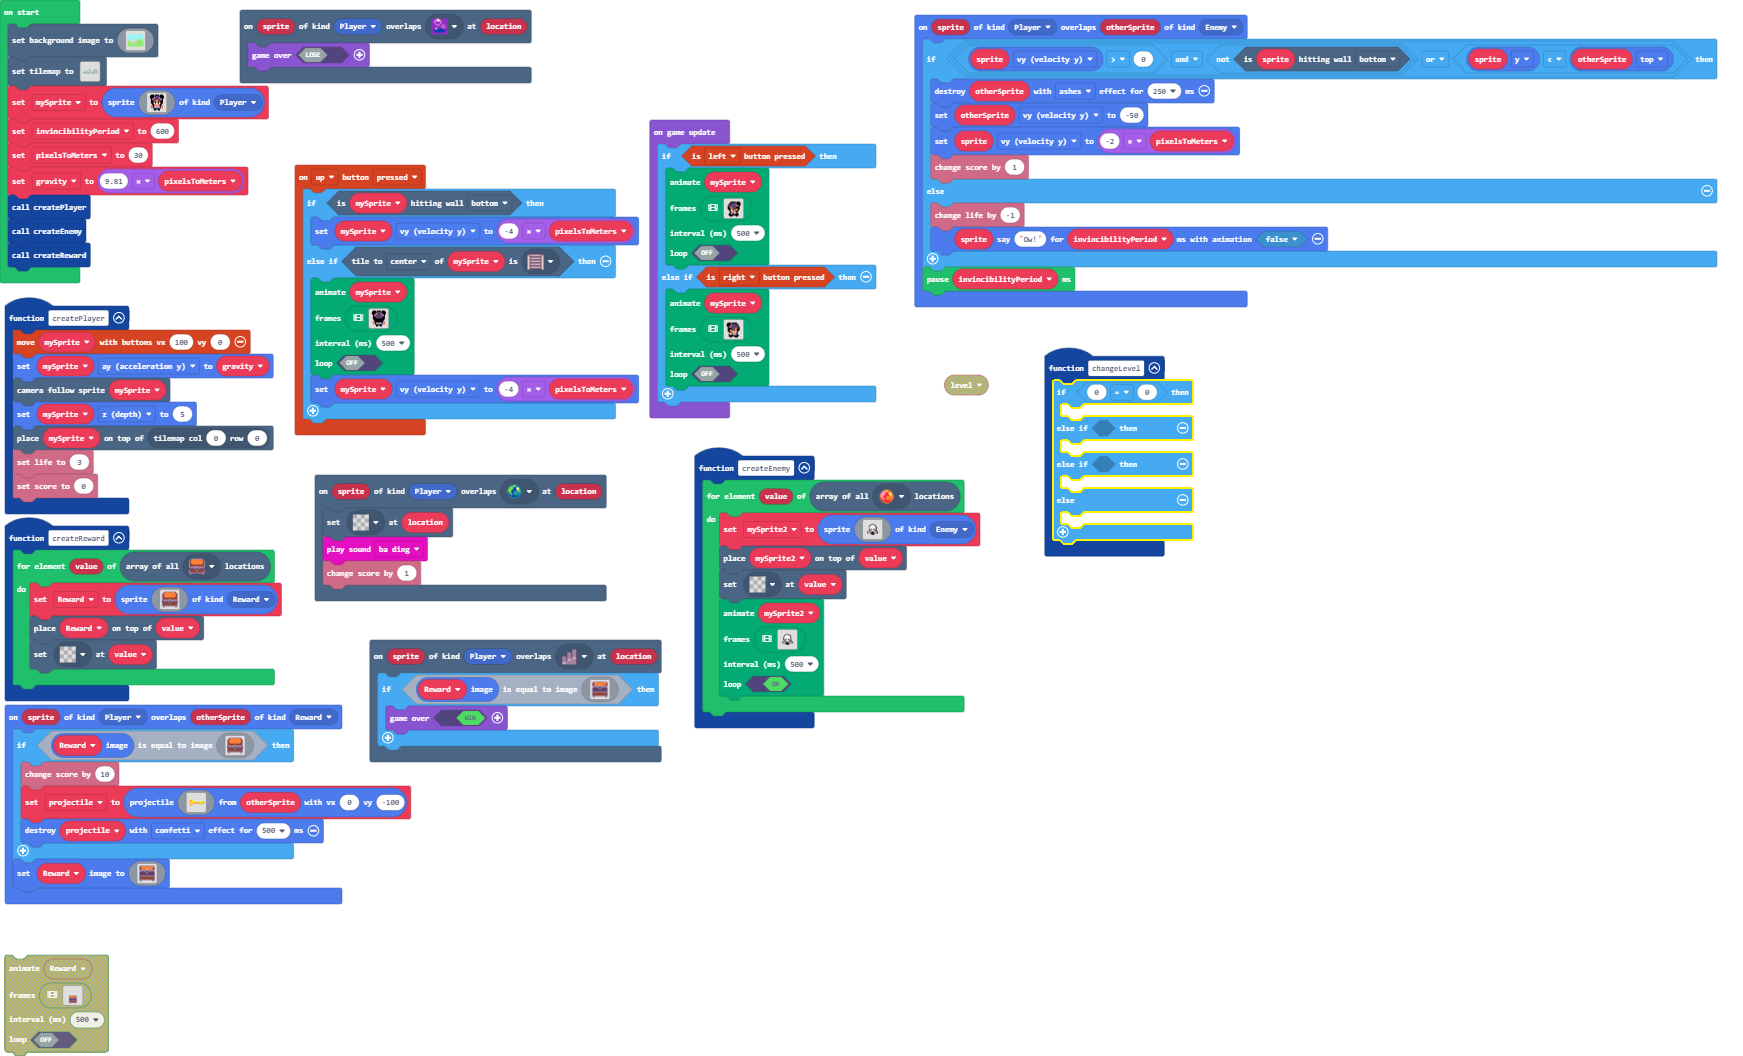
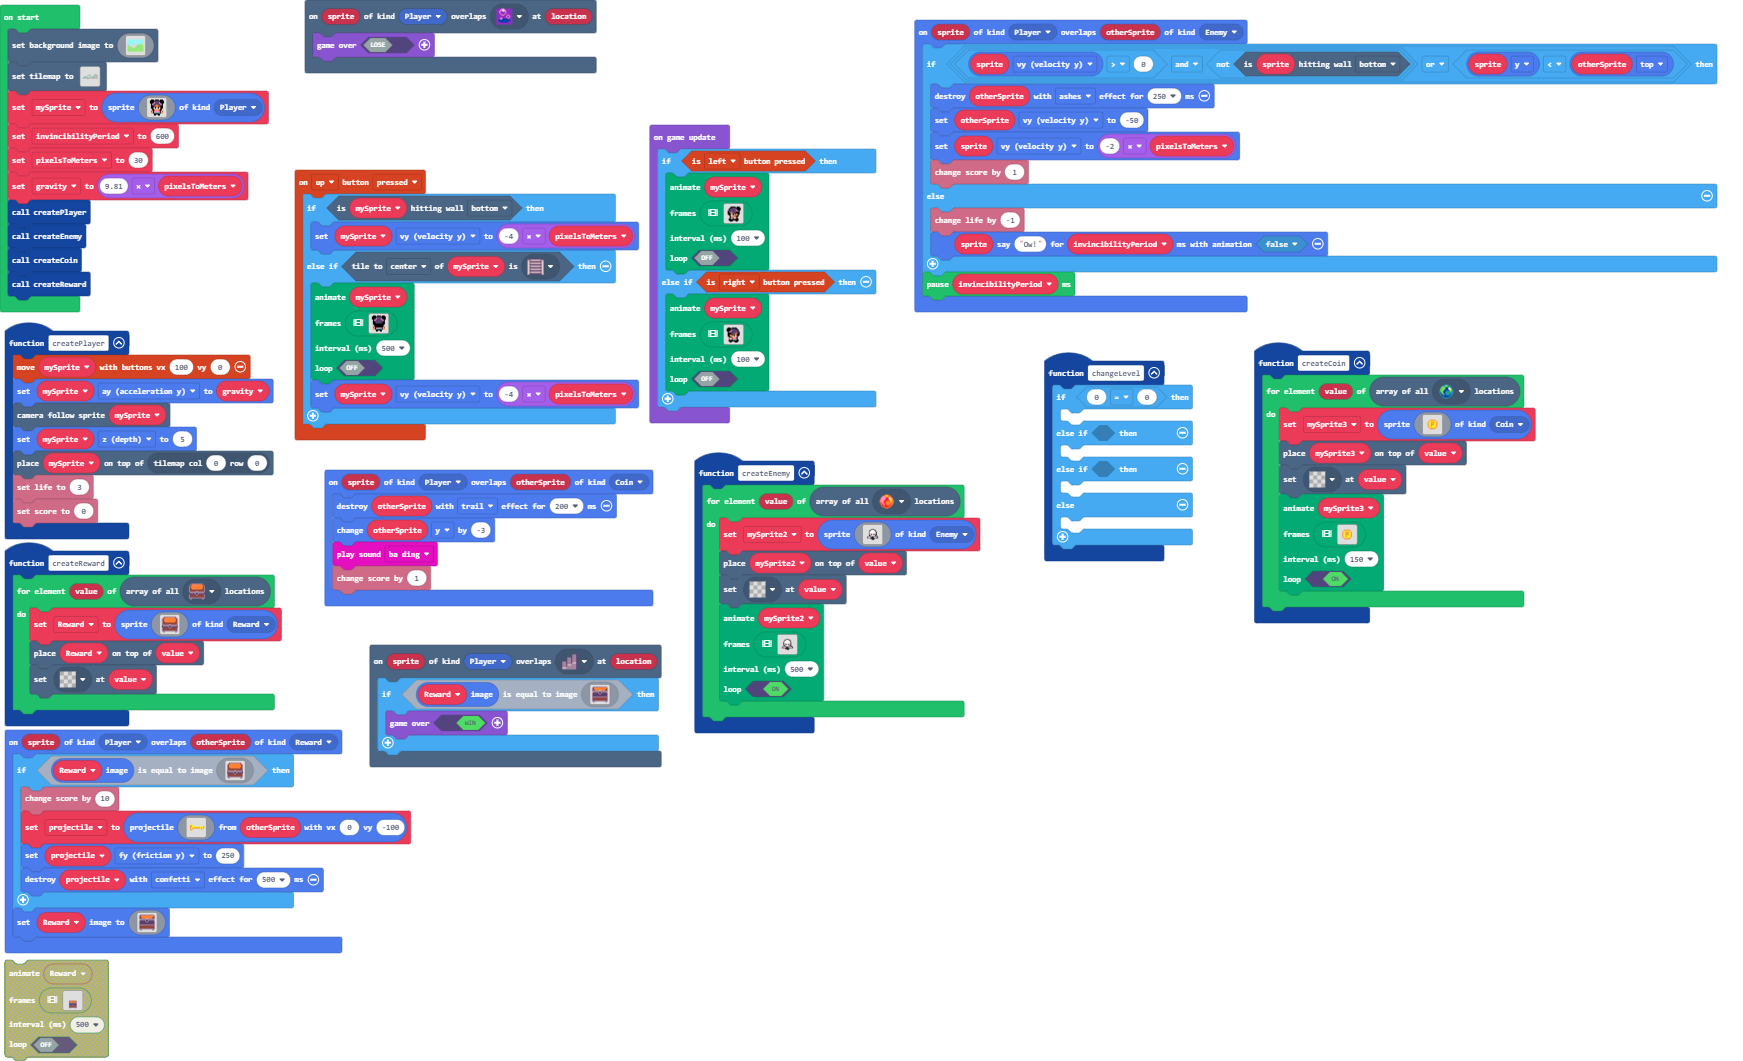
Update pxt.json, main.blocks, main.ts, tilemap.g.jres, tilemap.g.ts, images.g.jres, images.g.ts

Changed region(s): [[0.0, 0.0, 0.9914, 0.9375], [0.7126, 0.3125, 0.8985, 0.5938]]

diff --git a/tilemap.g.ts b/tilemap.g.ts
@@ -13,25 +13,6 @@ namespace myTiles {
 
     helpers._registerFactory("tilemap", function(name: string) {
         switch(helpers.stringTrim(name)) {
-            case "level1":
[1 lines of base64/hex data omitted]
-................................................
-................................................
-................................................
-......................................222.......
-......................22...................2....
-....................2...2................2......
-..................2....................2........
-................2........2........2222222222.222
-..............2..................2..............
-............2...........2.......................
-......22222....................2................
-.....2....2..............2....2.................
-....2...........2.2..........2..................
-222222222222222.....2222222222222222222222222222
-...............22222............................
-................................................
-`, [myTiles.transparency16,sprites.builtin.forestTiles1,sprites.swamp.swampTile13,sprites.swamp.swampTile12,sprites.swamp.swampTile14,sprites.builtin.forestTiles4,sprites.builtin.forestTiles0,sprites.builtin.forestTiles23,sprites.builtin.forestTiles22,sprites.builtin.forestTiles20,sprites.builtin.forestTiles28,sprites.swamp.swampTile3,sprites.dungeon.collectibleBlueCrystal,sprites.dungeon.stairSouth,sprites.builtin.forestTiles3,sprites.builtin.forestTiles2,sprites.builtin.forestTiles21,myTiles.tile3,sprites.builtin.forestTiles25,myTiles.tile5,sprites.dungeon.chestClosed], TileScale.Sixteen);
             case "level2":
             case "level2":return tiles.createTilemap(hex`1000100000000000000000000000000000000000000000000000000000000000000000000000000000000000000000000000000000000000000000000000000000000000000000000000000000000000000000000000000000000000000000000000000000000000000000000000000000000000000000000000000000000000000000000000000000000000000000000000000000000000000000000000000000000000000000000000000000000000000000000000000000000000000000000000000000000000000000000000000000000000000000000000000000000000000000000000000000000000000000000000000000000000000000000000000000000000`, img`
 . . . . . . . . . . . . . . . . 
@@ -51,6 +32,25 @@ namespace myTiles {
 . . . . . . . . . . . . . . . . 
 . . . . . . . . . . . . . . . . 
 `, [myTiles.transparency16], TileScale.Sixteen);
+            case "level1":
[1 lines of base64/hex data omitted]
+................................................
+................................................
+................................................
+......................................222.......
+......................22...................2....
+....................2...2................2......
+..................2....................2........
+................2........2........2222222222.222
+..............2..................2..............
+............2...........2.......................
+......22222....................2................
+.....2....2..............2....2.................
+....2...........2.2..........2..................
+222222222222222.....2222222222222222222222222222
+...............22222............................
+................................................
+`, [myTiles.transparency16,sprites.builtin.forestTiles1,sprites.swamp.swampTile13,sprites.swamp.swampTile12,sprites.swamp.swampTile14,sprites.builtin.forestTiles4,sprites.builtin.forestTiles0,sprites.builtin.forestTiles23,sprites.builtin.forestTiles22,sprites.builtin.forestTiles20,sprites.builtin.forestTiles28,sprites.swamp.swampTile3,sprites.dungeon.collectibleBlueCrystal,sprites.dungeon.stairSouth,sprites.builtin.forestTiles3,sprites.builtin.forestTiles2,sprites.builtin.forestTiles21,myTiles.tile3,sprites.builtin.forestTiles25,myTiles.tile5,sprites.dungeon.chestClosed], TileScale.Sixteen);
         }
         return null;
     })

diff --git a/main.ts b/main.ts
@@ -1,6 +1,7 @@
 namespace SpriteKind {
     export const Key = SpriteKind.create()
     export const Reward = SpriteKind.create()
+    export const Coin = SpriteKind.create()
 }
 scene.onOverlapTile(SpriteKind.Player, assets.tile`myTile1`, function (sprite, location) {
     if (Reward.image.equals(img`
@@ -88,6 +89,105 @@ controller.up.onEvent(ControllerButtonEvent.Pressed, function () {
         mySprite.vy = -4 * pixelsToMeters
     }
 })
+sprites.onOverlap(SpriteKind.Player, SpriteKind.Coin, function (sprite, otherSprite) {
+    otherSprite.destroy(effects.trail, 200)
+    otherSprite.y += -3
+    music.baDing.play()
+    info.changeScoreBy(1)
+})
+function createCoin () {
+    for (let value of tiles.getTilesByType(sprites.dungeon.collectibleBlueCrystal)) {
+        mySprite3 = sprites.create(assets.image`Coin`, SpriteKind.Coin)
+        tiles.placeOnTile(mySprite3, value)
+        tiles.setTileAt(value, assets.tile`transparency16`)
+        animation.runImageAnimation(
+        mySprite3,
+        [img`
+            . . . . . . . . . . . . . . . 
+            . . . . . . . . . . . . . . . 
+            . . . . . . . . . . . . . . . 
+            . . . . . 4 4 4 4 4 . . . . . 
+            . . . . 4 5 5 5 5 5 4 . . . . 
+            . . . 4 5 5 4 4 4 5 5 4 . . . 
+            . . . 4 5 5 4 5 4 5 5 4 . . . 
+            . . . 4 5 5 4 4 4 5 5 4 . . . 
+            . . . 4 5 5 4 5 5 5 5 4 . . . 
+            . . . 4 5 5 4 5 5 5 5 4 . . . 
+            . . . . 4 5 5 5 5 5 4 . . . . 
+            . . . . . 4 4 4 4 4 . . . . . 
+            . . . . . . . . . . . . . . . 
+            . . . . . . . . . . . . . . . 
+            . . . . . . . . . . . . . . . 
+            `,img`
+            . . . . . . . . . . . . . . . 
+            . . . . . . . . . . . . . . . 
+            . . . . . . . . . . . . . . . 
+            . . . . . 4 4 4 4 . . . . . . 
+            . . . . 4 5 4 5 5 4 . . . . . 
+            . . . 4 5 4 5 5 5 5 4 . . . . 
+            . . . 4 5 4 5 4 4 5 4 . . . . 
+            . . . 4 5 4 5 4 4 5 4 . . . . 
+            . . . 4 5 4 5 4 5 5 4 . . . . 
+            . . . 4 5 4 5 5 5 5 4 . . . . 
+            . . . . 4 5 4 5 5 4 . . . . . 
+            . . . . . 4 4 4 4 . . . . . . 
+            . . . . . . . . . . . . . . . 
+            . . . . . . . . . . . . . . . 
+            . . . . . . . . . . . . . . . 
+            `,img`
+            . . . . . . . . . . . . . . . 
+            . . . . . . . . . . . . . . . 
+            . . . . . . . . . . . . . . . 
+            . . . . . 4 4 4 4 . . . . . . 
+            . . . . 4 5 5 4 5 4 . . . . . 
+            . . . . 4 5 5 4 5 5 4 . . . . 
+            . . . . 4 5 5 4 5 5 4 . . . . 
+            . . . . 4 5 5 4 5 5 4 . . . . 
+            . . . . 4 5 5 4 5 5 4 . . . . 
+            . . . . 4 5 5 4 5 5 4 . . . . 
+            . . . . 4 5 5 4 5 4 . . . . . 
+            . . . . . 4 4 4 4 . . . . . . 
+            . . . . . . . . . . . . . . . 
+            . . . . . . . . . . . . . . . 
+            . . . . . . . . . . . . . . . 
+            `,img`
+            . . . . . . . . . . . . . . . 
+            . . . . . . . . . . . . . . . 
+            . . . . . . . . . . . . . . . 
+            . . . . . . 4 4 4 4 . . . . . 
+            . . . . . 4 5 4 5 5 4 . . . . 
+            . . . . 4 5 5 4 5 5 4 . . . . 
+            . . . . 4 5 5 4 5 5 4 . . . . 
+            . . . . 4 5 5 4 5 5 4 . . . . 
+            . . . . 4 5 5 4 5 5 4 . . . . 
+            . . . . 4 5 5 4 5 5 4 . . . . 
+            . . . . . 4 5 4 5 5 4 . . . . 
+            . . . . . . 4 4 4 4 . . . . . 
+            . . . . . . . . . . . . . . . 
+            . . . . . . . . . . . . . . . 
+            . . . . . . . . . . . . . . . 
+            `,img`
+            . . . . . . . . . . . . . . . 
+            . . . . . . . . . . . . . . . 
+            . . . . . . . . . . . . . . . 
+            . . . . . . 4 4 4 4 . . . . . 
+            . . . . . 4 5 5 4 5 4 . . . . 
+            . . . . 4 5 5 5 5 4 5 4 . . . 
+            . . . . 4 5 4 4 5 4 5 4 . . . 
+            . . . . 4 5 4 4 5 4 5 4 . . . 
+            . . . . 4 5 4 5 5 4 5 4 . . . 
+            . . . . 4 5 5 5 5 4 5 4 . . . 
+            . . . . . 4 5 5 4 5 4 . . . . 
+            . . . . . . 4 4 4 4 . . . . . 
+            . . . . . . . . . . . . . . . 
+            . . . . . . . . . . . . . . . 
+            . . . . . . . . . . . . . . . 
+            `],
+        150,
+        true
+        )
+    }
+}
 sprites.onOverlap(SpriteKind.Player, SpriteKind.Reward, function (sprite, otherSprite) {
     if (Reward.image.equals(img`
         . . b b b b b b b b b b b b . . 
@@ -126,6 +226,7 @@ sprites.onOverlap(SpriteKind.Player, SpriteKind.Reward, function (sprite, otherS
             . . . . . . . . . . . . . . . . 
             . . . . . . . . . . . . . . . . 
             `, otherSprite, 0, -100)
+        projectile.fy = 250
         projectile.destroy(effects.confetti, 500)
     }
     Reward.setImage(img`
@@ -160,11 +261,6 @@ function changeLevel () {
 }
 scene.onOverlapTile(SpriteKind.Player, sprites.swamp.swampTile13, function (sprite, location) {
     game.over(false)
-})
-scene.onOverlapTile(SpriteKind.Player, sprites.dungeon.collectibleBlueCrystal, function (sprite, location) {
-    tiles.setTileAt(location, assets.tile`transparency16`)
-    music.baDing.play()
-    info.changeScoreBy(1)
 })
 function createEnemy () {
     for (let value of tiles.getTilesByType(assets.tile`myTile3`)) {
@@ -351,6 +447,7 @@ sprites.onOverlap(SpriteKind.Player, SpriteKind.Enemy, function (sprite, otherSp
 })
 let mySprite2: Sprite = null
 let projectile: Sprite = null
+let mySprite3: Sprite = null
 let Reward: Sprite = null
 let gravity = 0
 let pixelsToMeters = 0
@@ -502,6 +599,7 @@ pixelsToMeters = 30
 gravity = 9.81 * pixelsToMeters
 createPlayer()
 createEnemy()
+createCoin()
 createReward()
 game.onUpdate(function () {
     if (controller.left.isPressed()) {
@@ -559,7 +657,7 @@ game.onUpdate(function () {
             . . . . f f f f f f . . . . 
             . . . . . . f f f . . . . . 
             `],
-        500,
+        100,
         false
         )
     } else if (controller.right.isPressed()) {
@@ -617,7 +715,7 @@ game.onUpdate(function () {
             . . . . f f f f f f . . . . 
             . . . . . f f f . . . . . . 
             `],
-        500,
+        100,
         false
         )
     }

diff --git a/images.g.ts b/images.g.ts
@@ -1,0 +1,36 @@
+// Auto-generated code. Do not edit.
+namespace myImages {
+
+    helpers._registerFactory("image", function(name: string) {
+        switch(helpers.stringTrim(name)) {
+            case "image1":
+            case "Coin":return img`
+. . . . . . . . . . . . . . . 
+. . . . . . . . . . . . . . . 
+. . . . . . . . . . . . . . . 
+. . . . . 4 4 4 4 4 . . . . . 
+. . . . 4 5 5 5 5 5 4 . . . . 
+. . . 4 5 5 4 4 4 5 5 4 . . . 
+. . . 4 5 5 4 5 4 5 5 4 . . . 
+. . . 4 5 5 4 4 4 5 5 4 . . . 
+. . . 4 5 5 4 5 5 5 5 4 . . . 
+. . . 4 5 5 4 5 5 5 5 4 . . . 
+. . . . 4 5 5 5 5 5 4 . . . . 
+. . . . . 4 4 4 4 4 . . . . . 
+. . . . . . . . . . . . . . . 
+. . . . . . . . . . . . . . . 
+. . . . . . . . . . . . . . . 
+`;
+        }
+        return null;
+    })
+
+    helpers._registerFactory("animation", function(name: string) {
+        switch(helpers.stringTrim(name)) {
+
+        }
+        return null;
+    })
+
+}
+// Auto-generated code. Do not edit.
